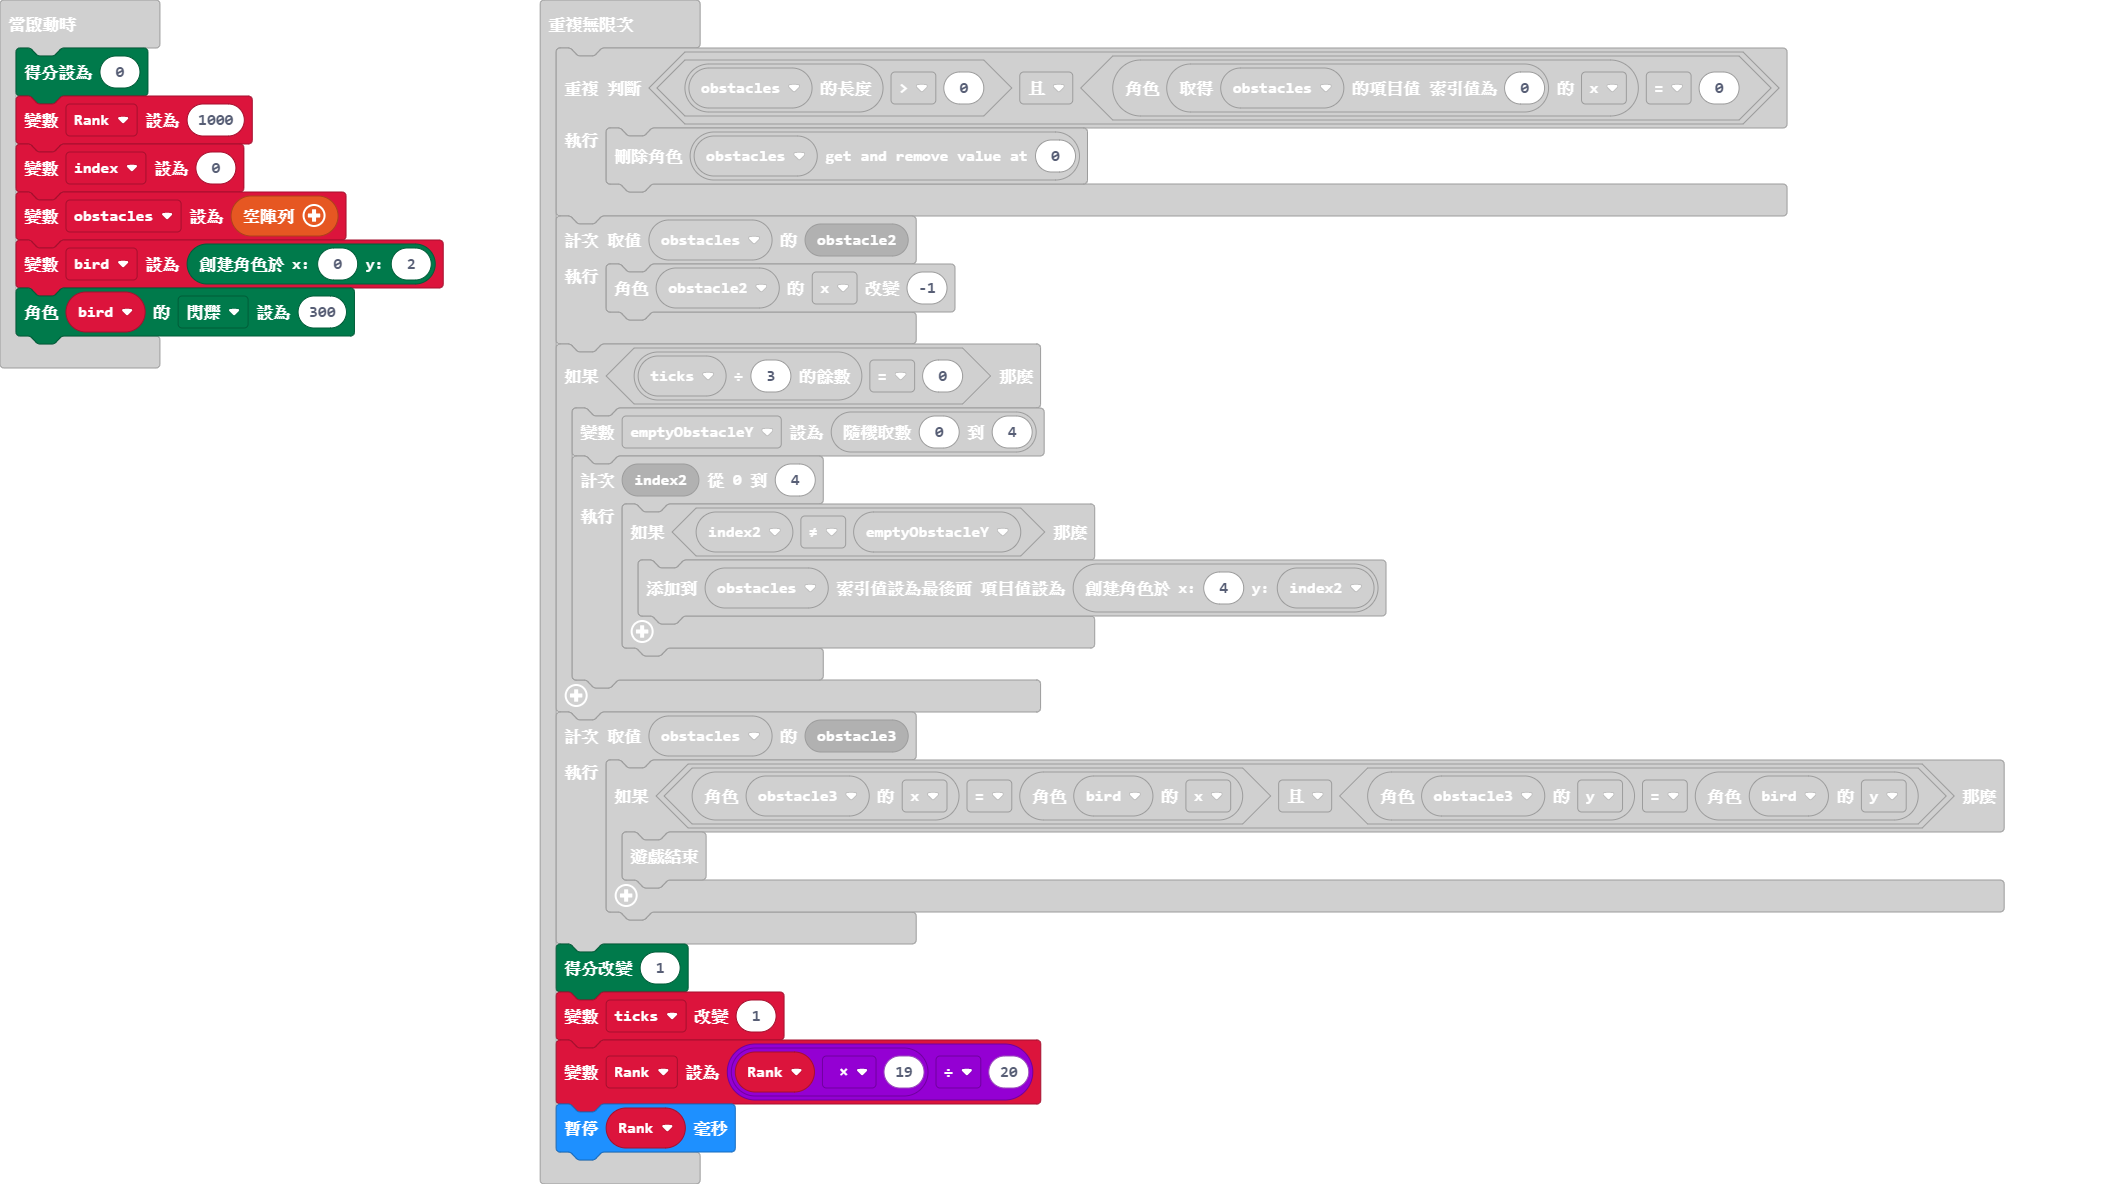
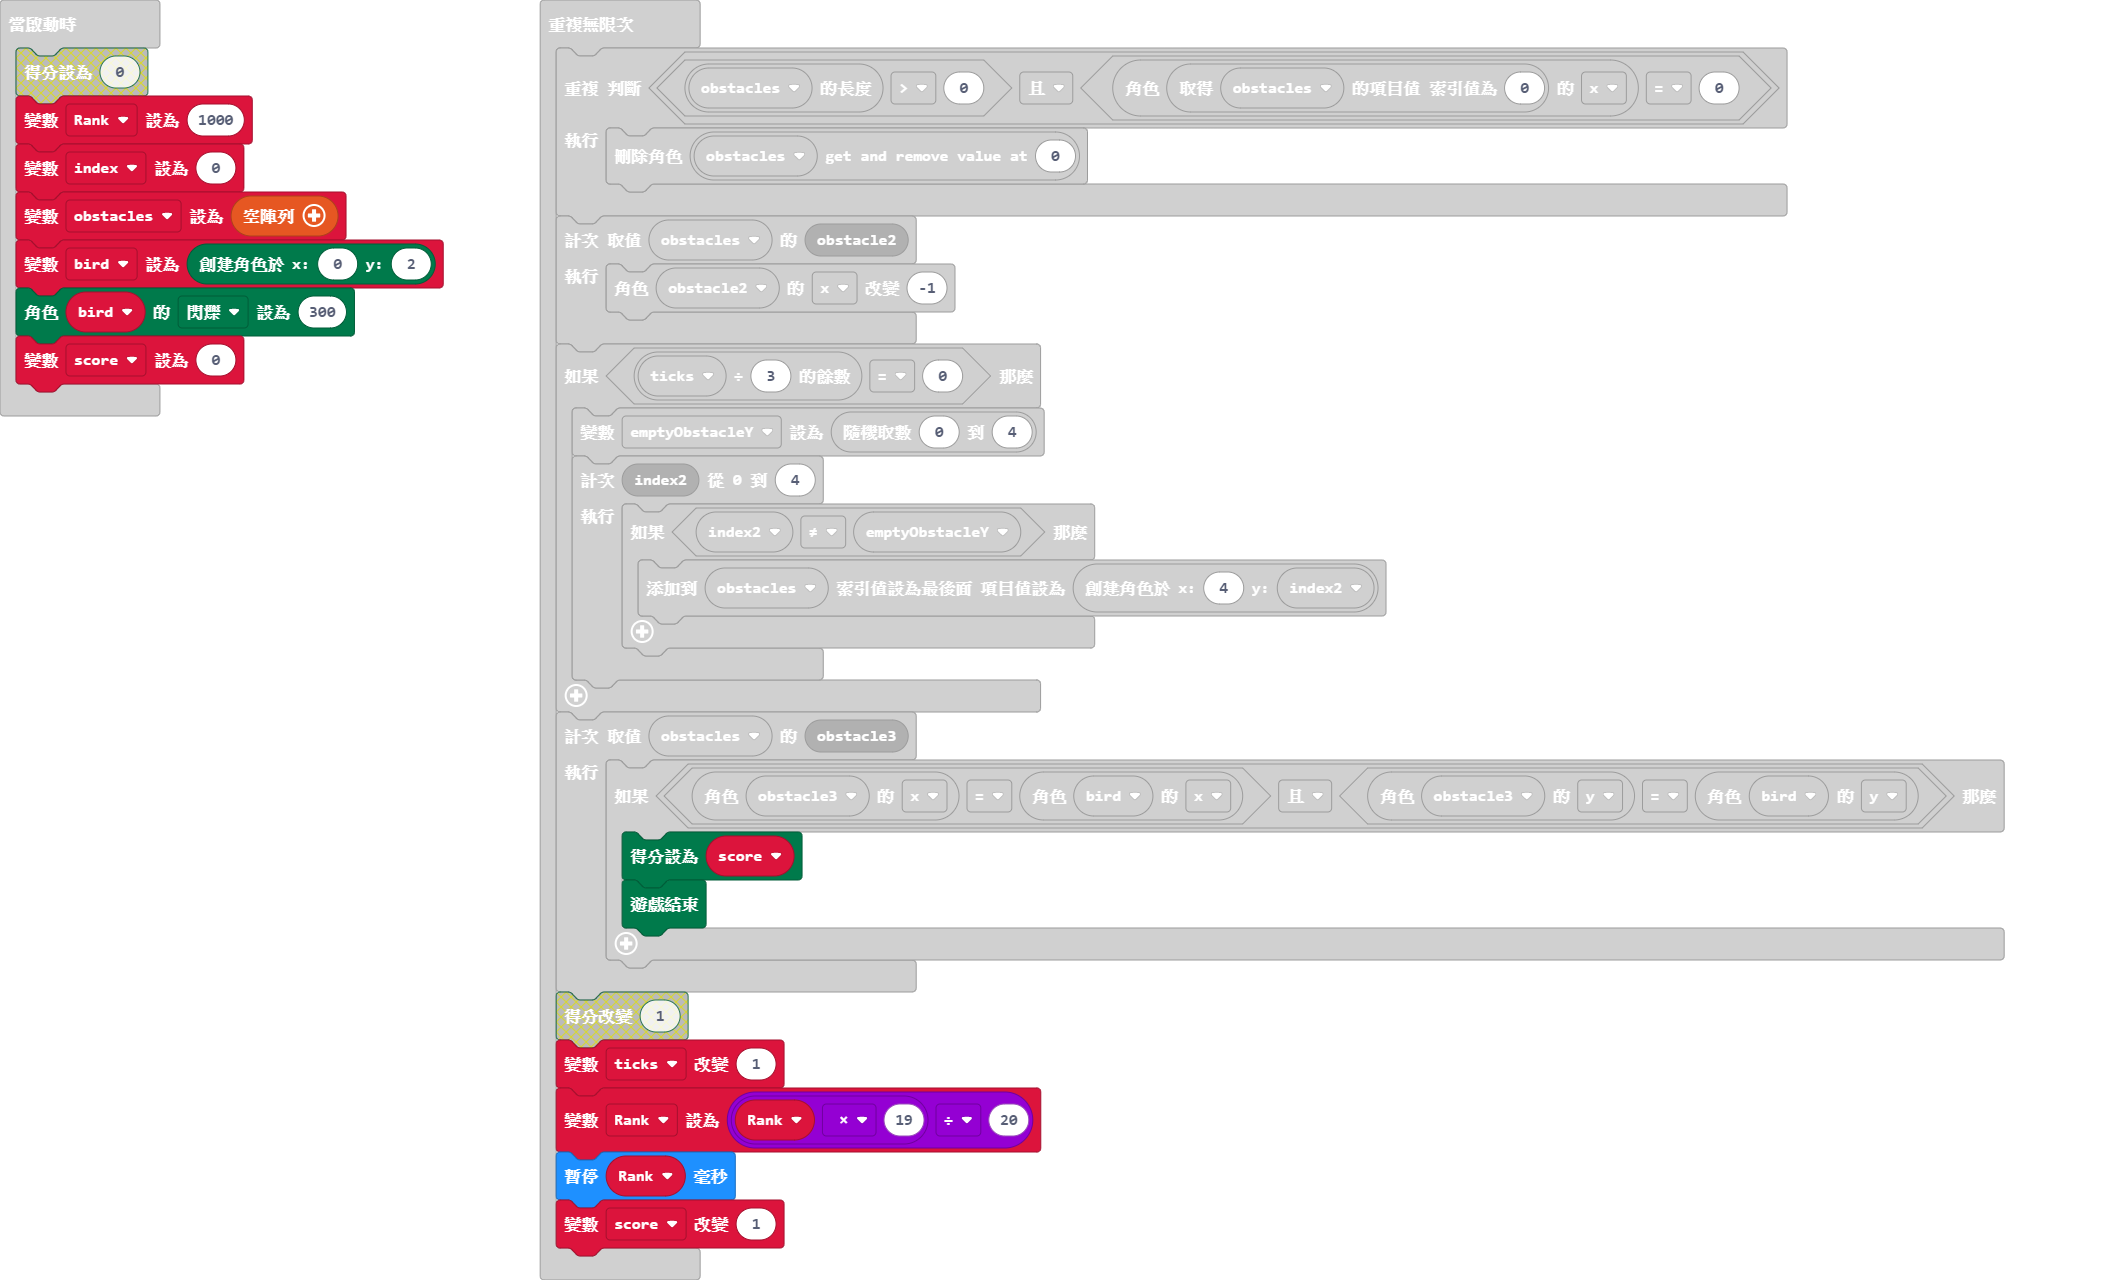
bug fix

Changed region(s): [[0.2467, 0.0312, 0.9559, 1.0], [0.0, 0.0312, 0.2158, 0.3438], [0.2775, 0.0, 0.3083, 0.0312]]

diff --git a/main.ts b/main.ts
@@ -7,7 +7,7 @@ input.onButtonPressed(Button.B, function () {
 let emptyObstacleY = 0
 let ticks = 0
 let bird: game.LedSprite = null
-game.setScore(0)
+let score = 0
 let Rank = 1000
 let index = 0
 let obstacles: game.LedSprite[] = []
@@ -30,10 +30,11 @@ basic.forever(function () {
     }
     for (let obstacle3 of obstacles) {
         if (obstacle3.get(LedSpriteProperty.X) == bird.get(LedSpriteProperty.X) && obstacle3.get(LedSpriteProperty.Y) == bird.get(LedSpriteProperty.Y)) {
+            game.setScore(score)
             game.gameOver()
         }
     }
-    game.addScore(1)
+    score += 1
     ticks += 1
     Rank = Rank * 19 / 20
     basic.pause(Rank)
